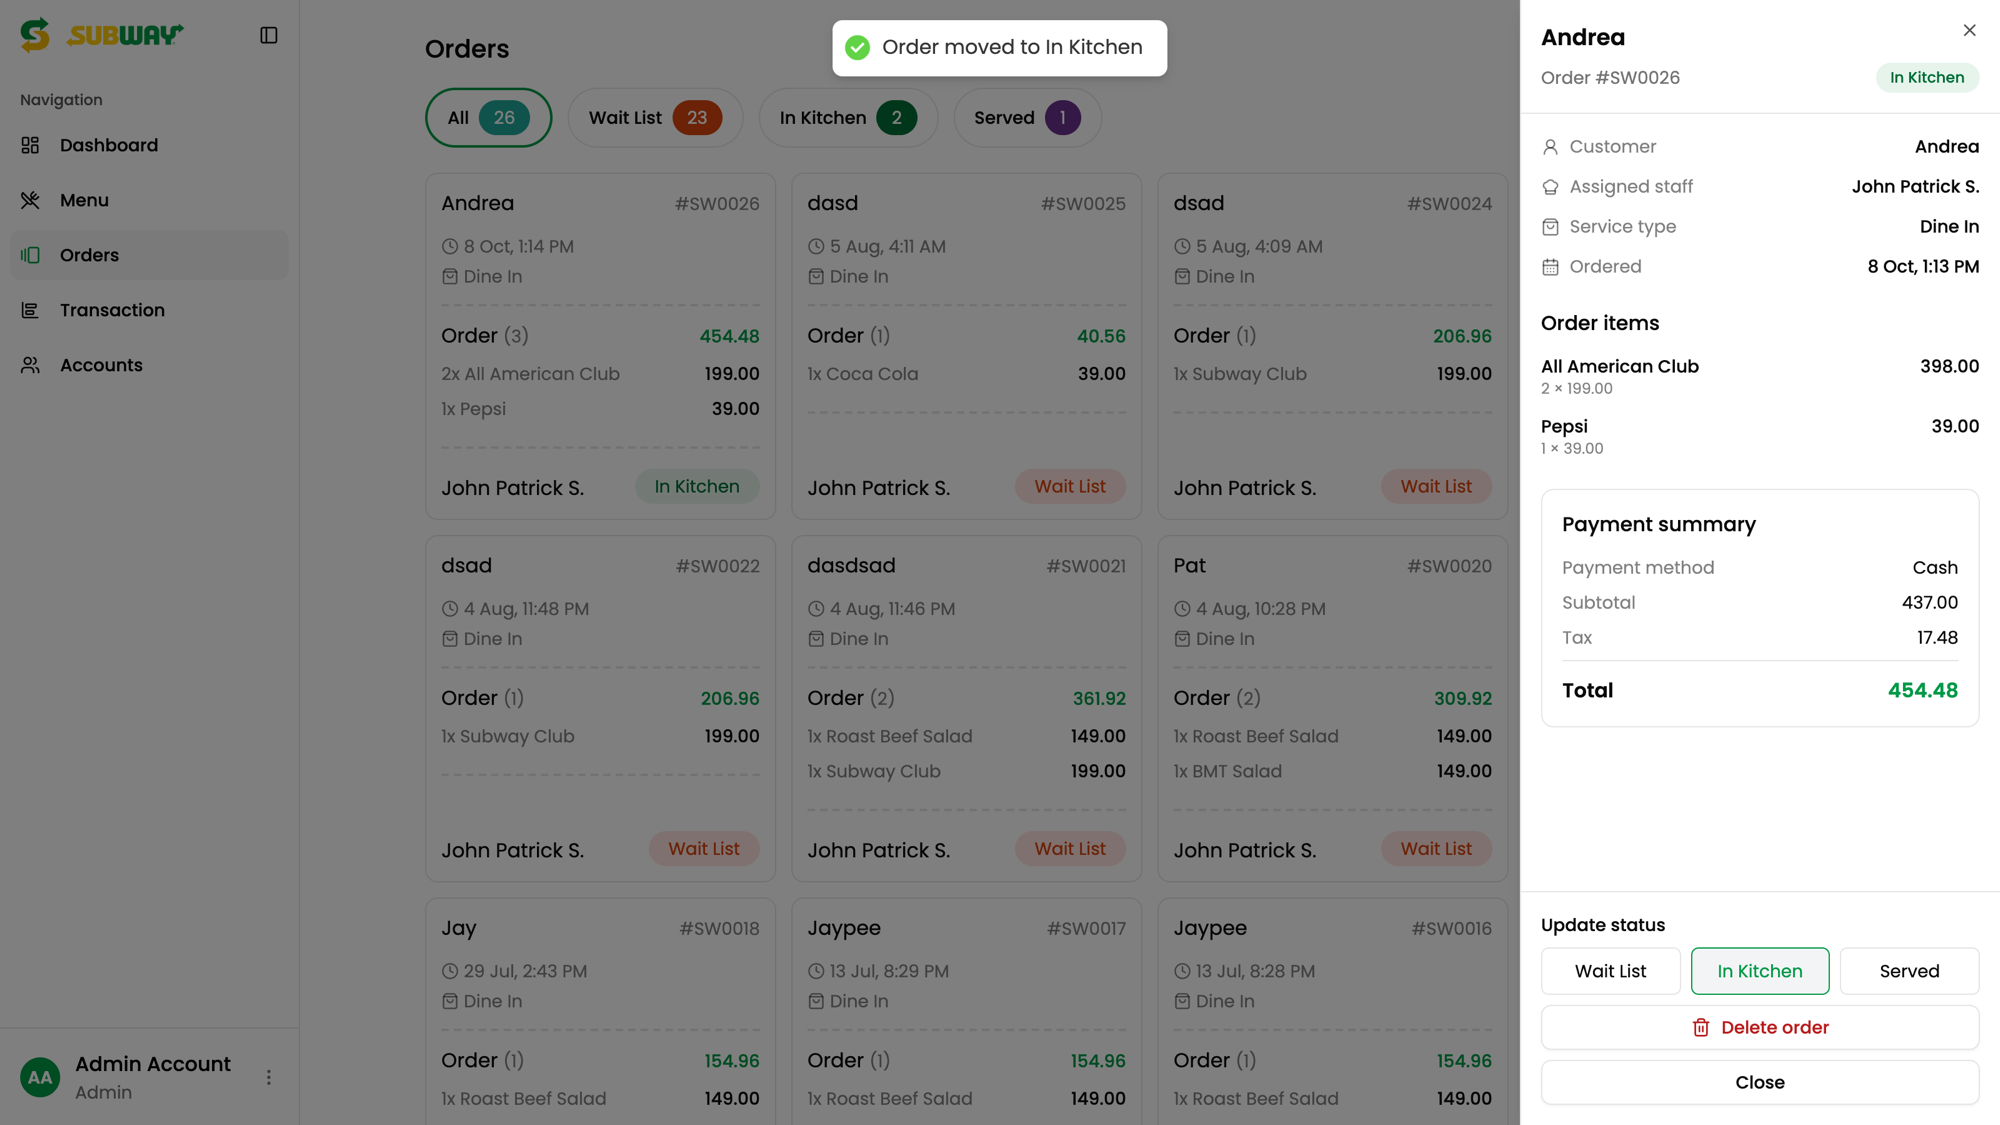
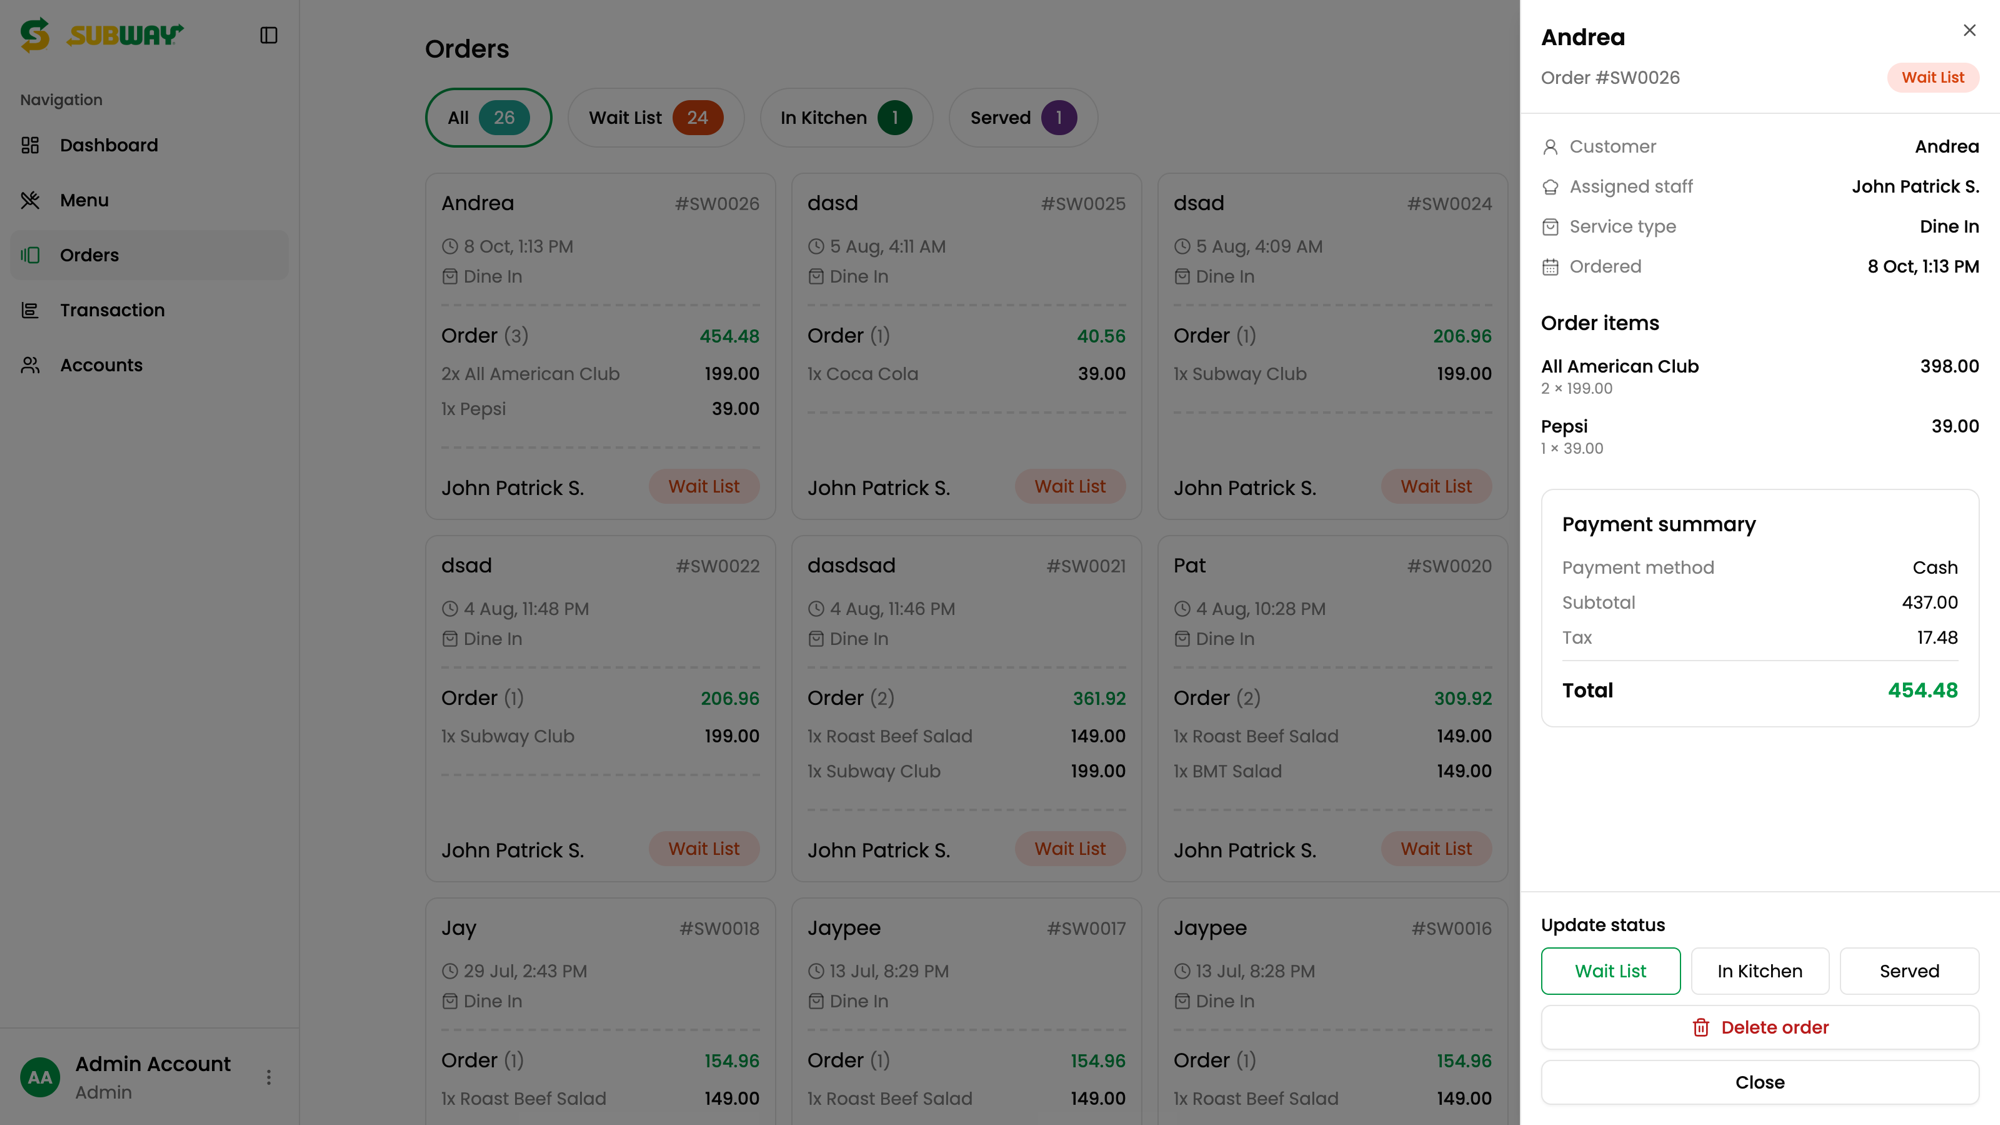
Refactor code structure for improved readability and maintainability

diff --git a/client/src/components/RecentProject/projects.ts b/client/src/components/RecentProject/projects.ts
@@ -14,7 +14,7 @@ import SmartSubwayOrderLine from "@/assets/smart-subway/pos-order-line.png"
 import SmartSubwayDashboard from "@/assets/smart-subway/admin-dashboard.png"
 import SmartSubwayOrderDetails from "@/assets/smart-subway/order-details.png"
 import SmartSubwayMenu from "@/assets/smart-subway/menu-management.png"
-import SmartSubwayConfirmOrder from "@/assets/smart-subway/confirm-order.png"
+import SmartSubwayTransactions from "@/assets/smart-subway/transactions.png"
 
 import IlabCICTDashboard from "@/assets/ilabcict/dashboard.png"
 import IlabCICTTickets from "@/assets/ilabcict/manage-ticket.png"
@@ -113,9 +113,9 @@ export const projects: Project[] = [
             screenshots: [
                 { image: SmartSubwayOrderLine, caption: "Order line: the live order queue, the menu, and the current order with payment summary.", width: 2000, height: 1125 },
                 { image: SmartSubwayDashboard, caption: "Admin dashboard with today's sales, order status and sales overview.", width: 2000, height: 1125 },
-                { image: SmartSubwayOrderDetails, caption: "Order details sheet for moving an order into the kitchen.", width: 2000, height: 1125 },
+                { image: SmartSubwayOrderDetails, caption: "Order details sheet with items, payment summary and status controls.", width: 2000, height: 1125 },
                 { image: SmartSubwayMenu, caption: "Menu management with availability toggles.", width: 2000, height: 1125 },
-                { image: SmartSubwayConfirmOrder, caption: "Confirming an order before it's placed.", width: 2000, height: 1125 },
+                { image: SmartSubwayTransactions, caption: "Transactions: the sales ledger with payment mix and receipt details.", width: 2000, height: 1125 },
             ],
         },
     },
